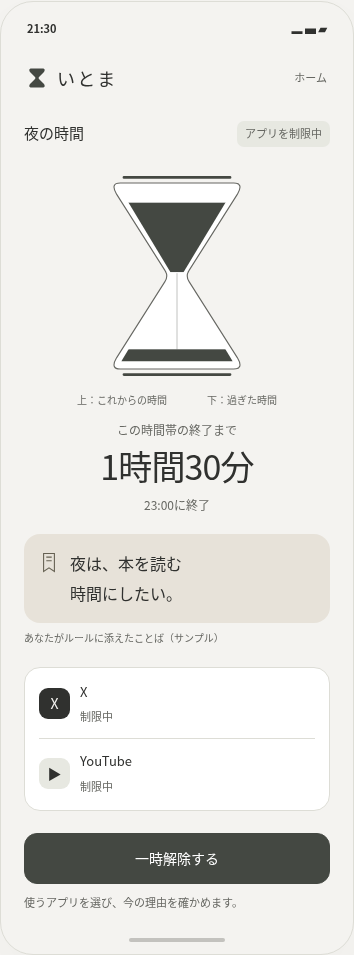
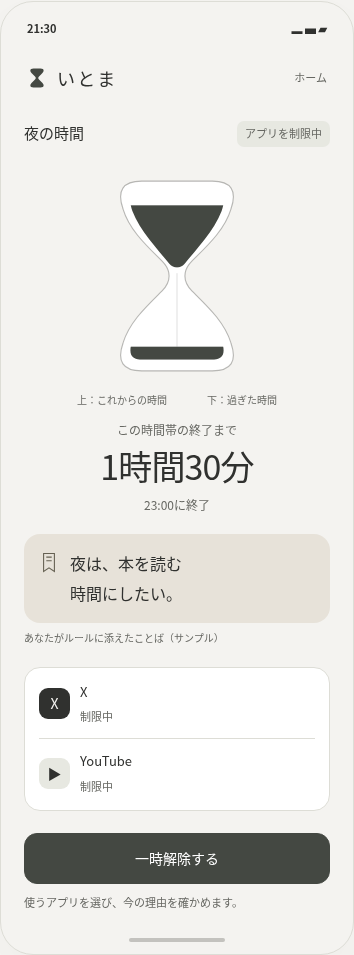
Soften hourglass silhouette and sand bowls

diff --git a/public/hourglass.css b/public/hourglass.css
@@ -49,10 +49,9 @@ h1 { font-size:35px; line-height:1.6; font-weight:500; letter-spacing:.04em; mar
 .glass-panel { margin:14px 0 18px; text-align:center; }
 .glass-figure { width:186px; height:230px; margin:auto; }
 .glass-figure svg { width:100%; height:100%; }
-.glass-body { fill:var(--surface); stroke:var(--muted); stroke-width:1.2; }
+.glass-body { fill:var(--surface); stroke:var(--muted); stroke-width:1.2; stroke-opacity:.45; }
 .glass-sand { fill:var(--accent); }
-.glass-stream { stroke:var(--accent); stroke-width:1; opacity:.35; }
-.glass-rim { stroke:var(--accent); stroke-width:3; stroke-linecap:round; }
+.glass-stream { stroke:var(--accent); stroke-width:.8; opacity:.22; }
 .glass-meta { display:flex; justify-content:space-between; margin:0 auto; max-width:200px; color:var(--muted); font-size:10px; }
 .time-label { color:var(--muted); font-size:12px; margin-top:10px; }
 .time-value { font-size:34px; line-height:1.5; font-weight:400; font-variant-numeric:tabular-nums; letter-spacing:-.025em; }

diff --git a/public/hourglass.html b/public/hourglass.html
@@ -6,7 +6,7 @@
   <link rel="stylesheet" href="hourglass.css">
 </head>
 <body>
-  <svg class="svg-library" xmlns="http://www.w3.org/2000/svg" aria-hidden="true"><defs><symbol id="brand-mark" viewBox="0 0 40 44"><path d="M9 3h22c6 0 5 5 2 8l-9 9c-1 1-1 3 0 4l9 9c3 3 4 8-2 8H9c-6 0-5-5-2-8l9-9c1-1 1-3 0-4l-9-9C4 8 3 3 9 3Z" fill="currentColor"/></symbol></defs></svg>
+  <svg class="svg-library" xmlns="http://www.w3.org/2000/svg" aria-hidden="true"><defs><symbol id="brand-mark" viewBox="0 0 40 44"><path d="M13 3H27C35 3 35 9 29 14L24 19C22 21 22 23 24 25L29 30C35 35 35 41 27 41H13C5 41 5 35 11 30L16 25C18 23 18 21 16 19L11 14C5 9 5 3 13 3Z" fill="currentColor"/></symbol></defs></svg>
   <div class="workspace">
     <header class="page-header"><a class="wordmark" href="hourglass.html" aria-label="砂時計デモをはじめから開く"><svg aria-hidden="true"><use href="#brand-mark"/></svg><span>いとま</span></a><span class="eyebrow">DESIGN EXPLORATION / 10</span></header>
     <main class="study">

diff --git a/docs/hourglass-study.md b/docs/hourglass-study.md
@@ -28,8 +28,8 @@
 ## 視覚・動きの契約
 
 - 基本色は採用された05「墨と白」のLight/Dark。文字・操作・引用面は [UIガイドライン](ui-guidelines.md) §6.1/6.4と同じ値。
-- UI用の砂時計SVGは候補10に着想を得たモック用の再作図。最終のアイコン/ロゴアセットへの採用や置き換えではない。
-- 上下の砂を同面積の台形でモデル化。口の幅120、くびれ14、高さ88、片側の面積5896。上の残砂面積が残り割合r、下の面積が1−rになるよう二次式から水準を求める。外側のガラスは角を和らげるが、塗り領域は台形clipで定義する。
+- UI用の砂時計SVGは候補10に着想を得たモック用の再作図。柔らかさの調整では直線的な三角形と上下の硬い横棒を外し、器・砂・ブランドマークの肩とくびれを曲線にした。輪郭と砂の流れの線も淡くした。最終のアイコン/ロゴアセットへの採用や置き換えではない。
+- 上下の砂を、丸い肩とくびれを持つ同面積の曲線形状でモデル化。Bézier輪郭を各区間64分割して面積を求め、24回の二分探索で上の残砂面積が残り割合rになる水準を算出する。下は上下反転した同形で面積1−rを保つ。SVGの描画と面積計算には同じ輪郭を使い、数値が示す残り時間は変更しない。
 - 21:30では上75%/下25%、残り90分。数値の正本は時刻と期限であり、描画位置から時間を逆算しない。
 - 砂の水準の変更は650msで補間する比較値。常時の粒子ループは置かず、流れを示す細線は静止。表示更新は実際のデモ時刻の差分に従う。
 - Reduce Motionでは水準を補間せず更新し、移動/スケールを止める。設定変更時も実行中の動きを停止する。数字と読み上げラベルは同じ時間を示す。
